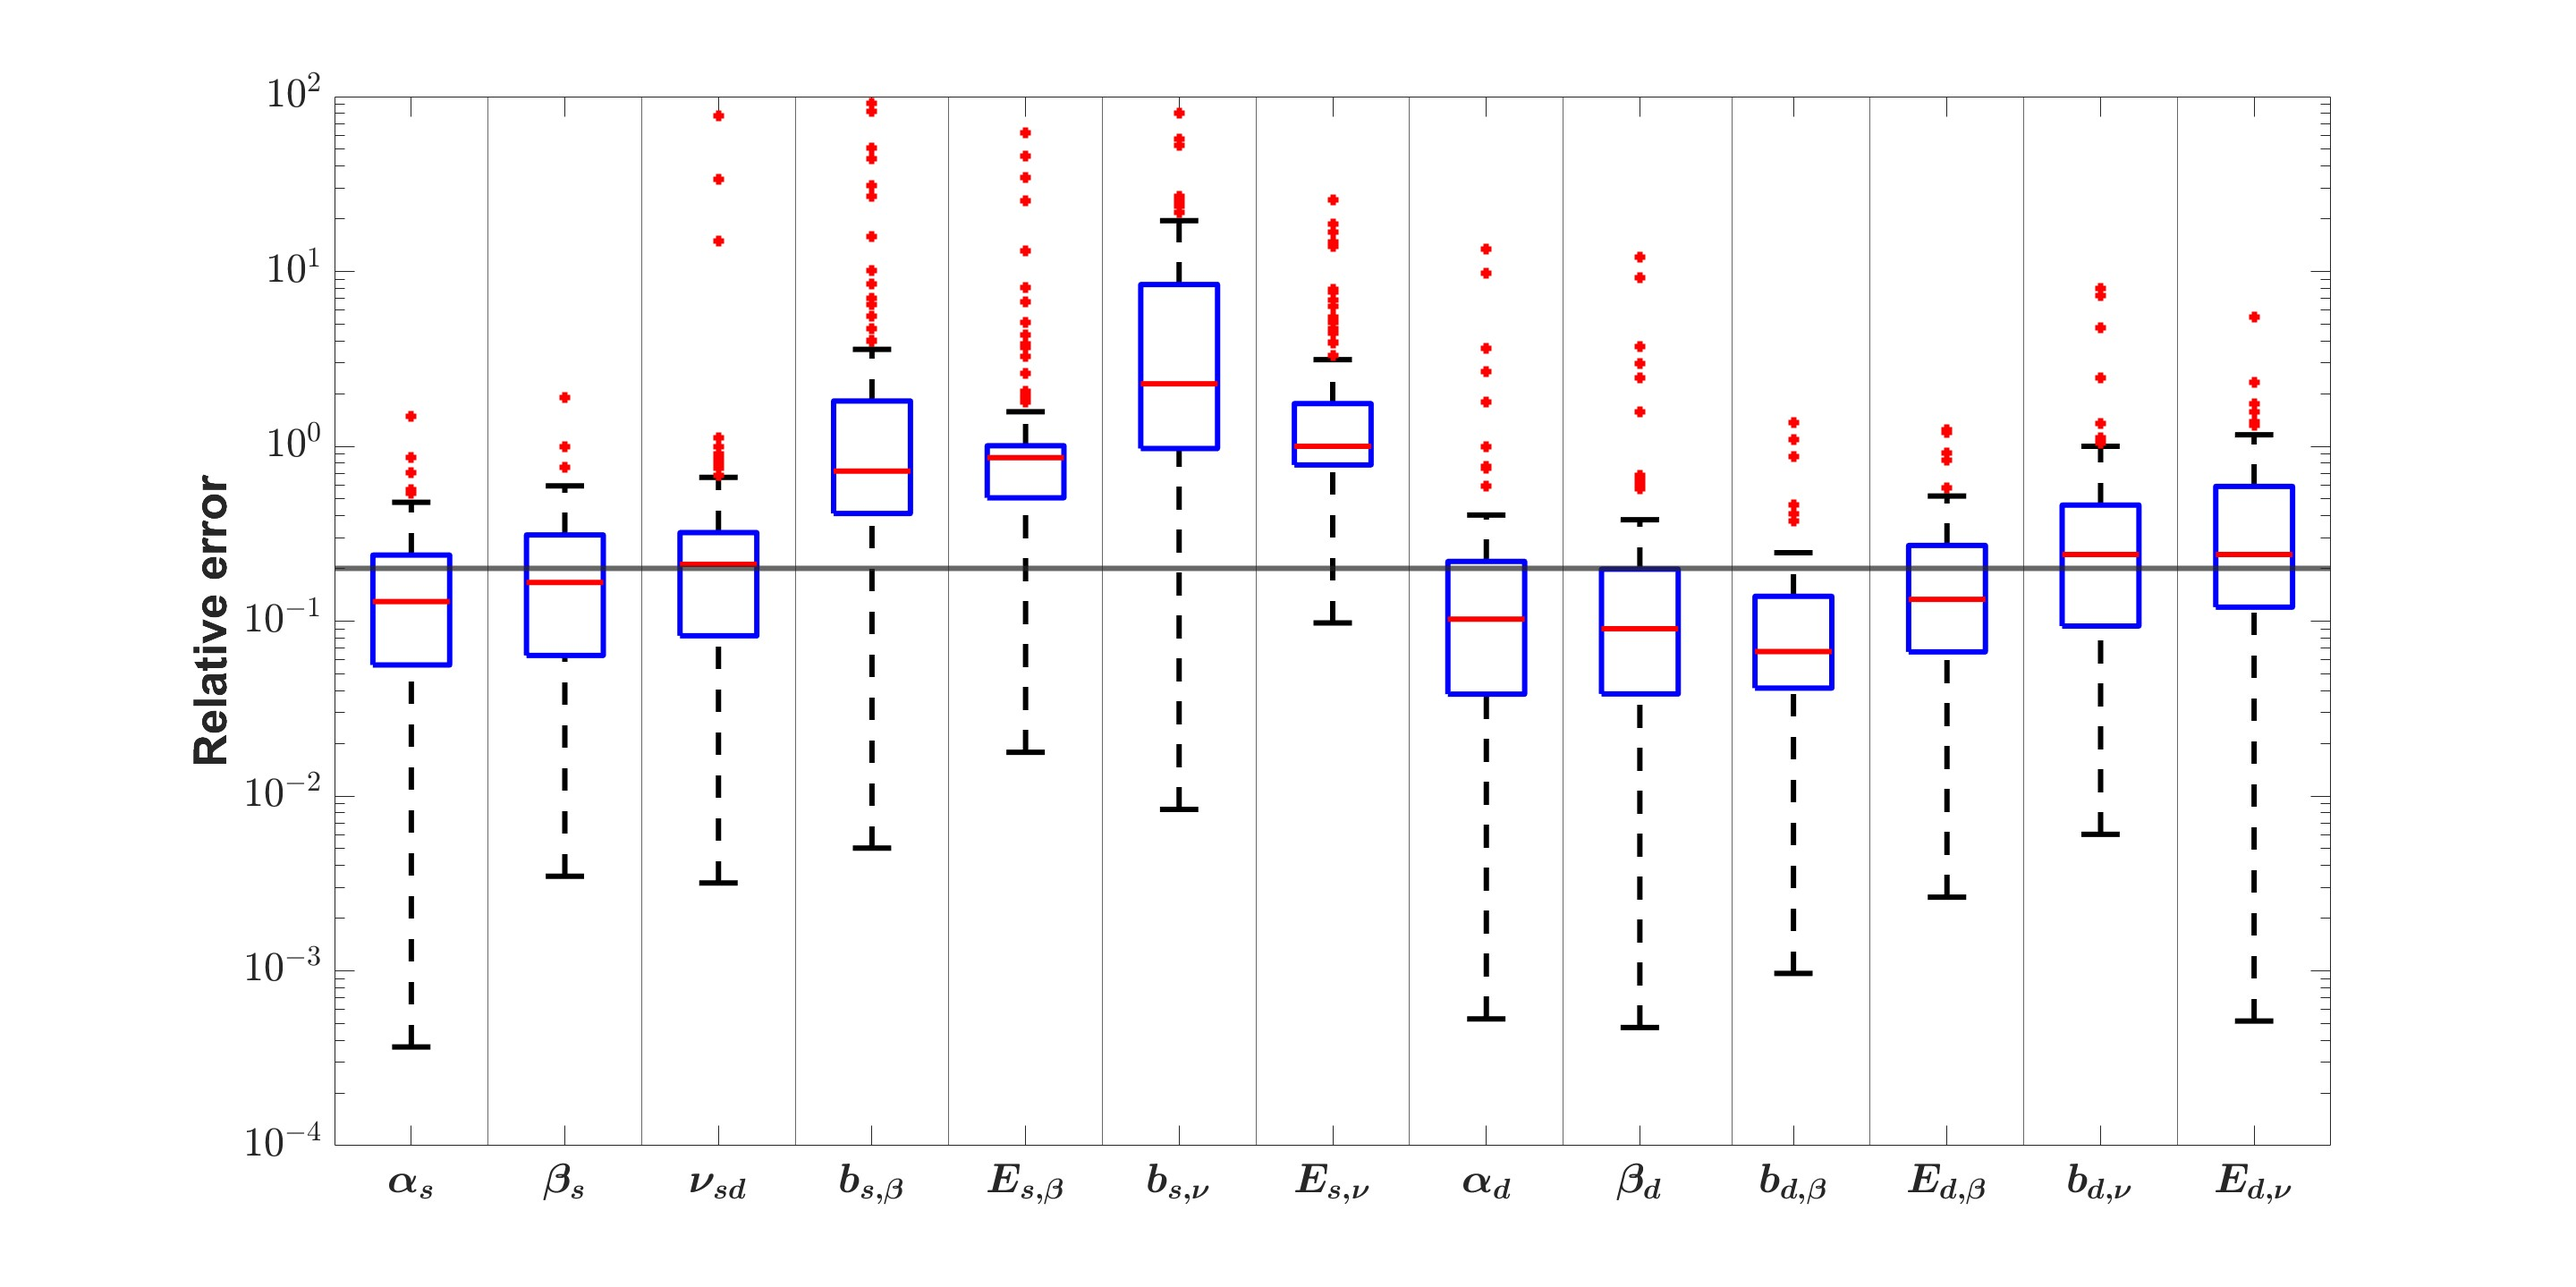
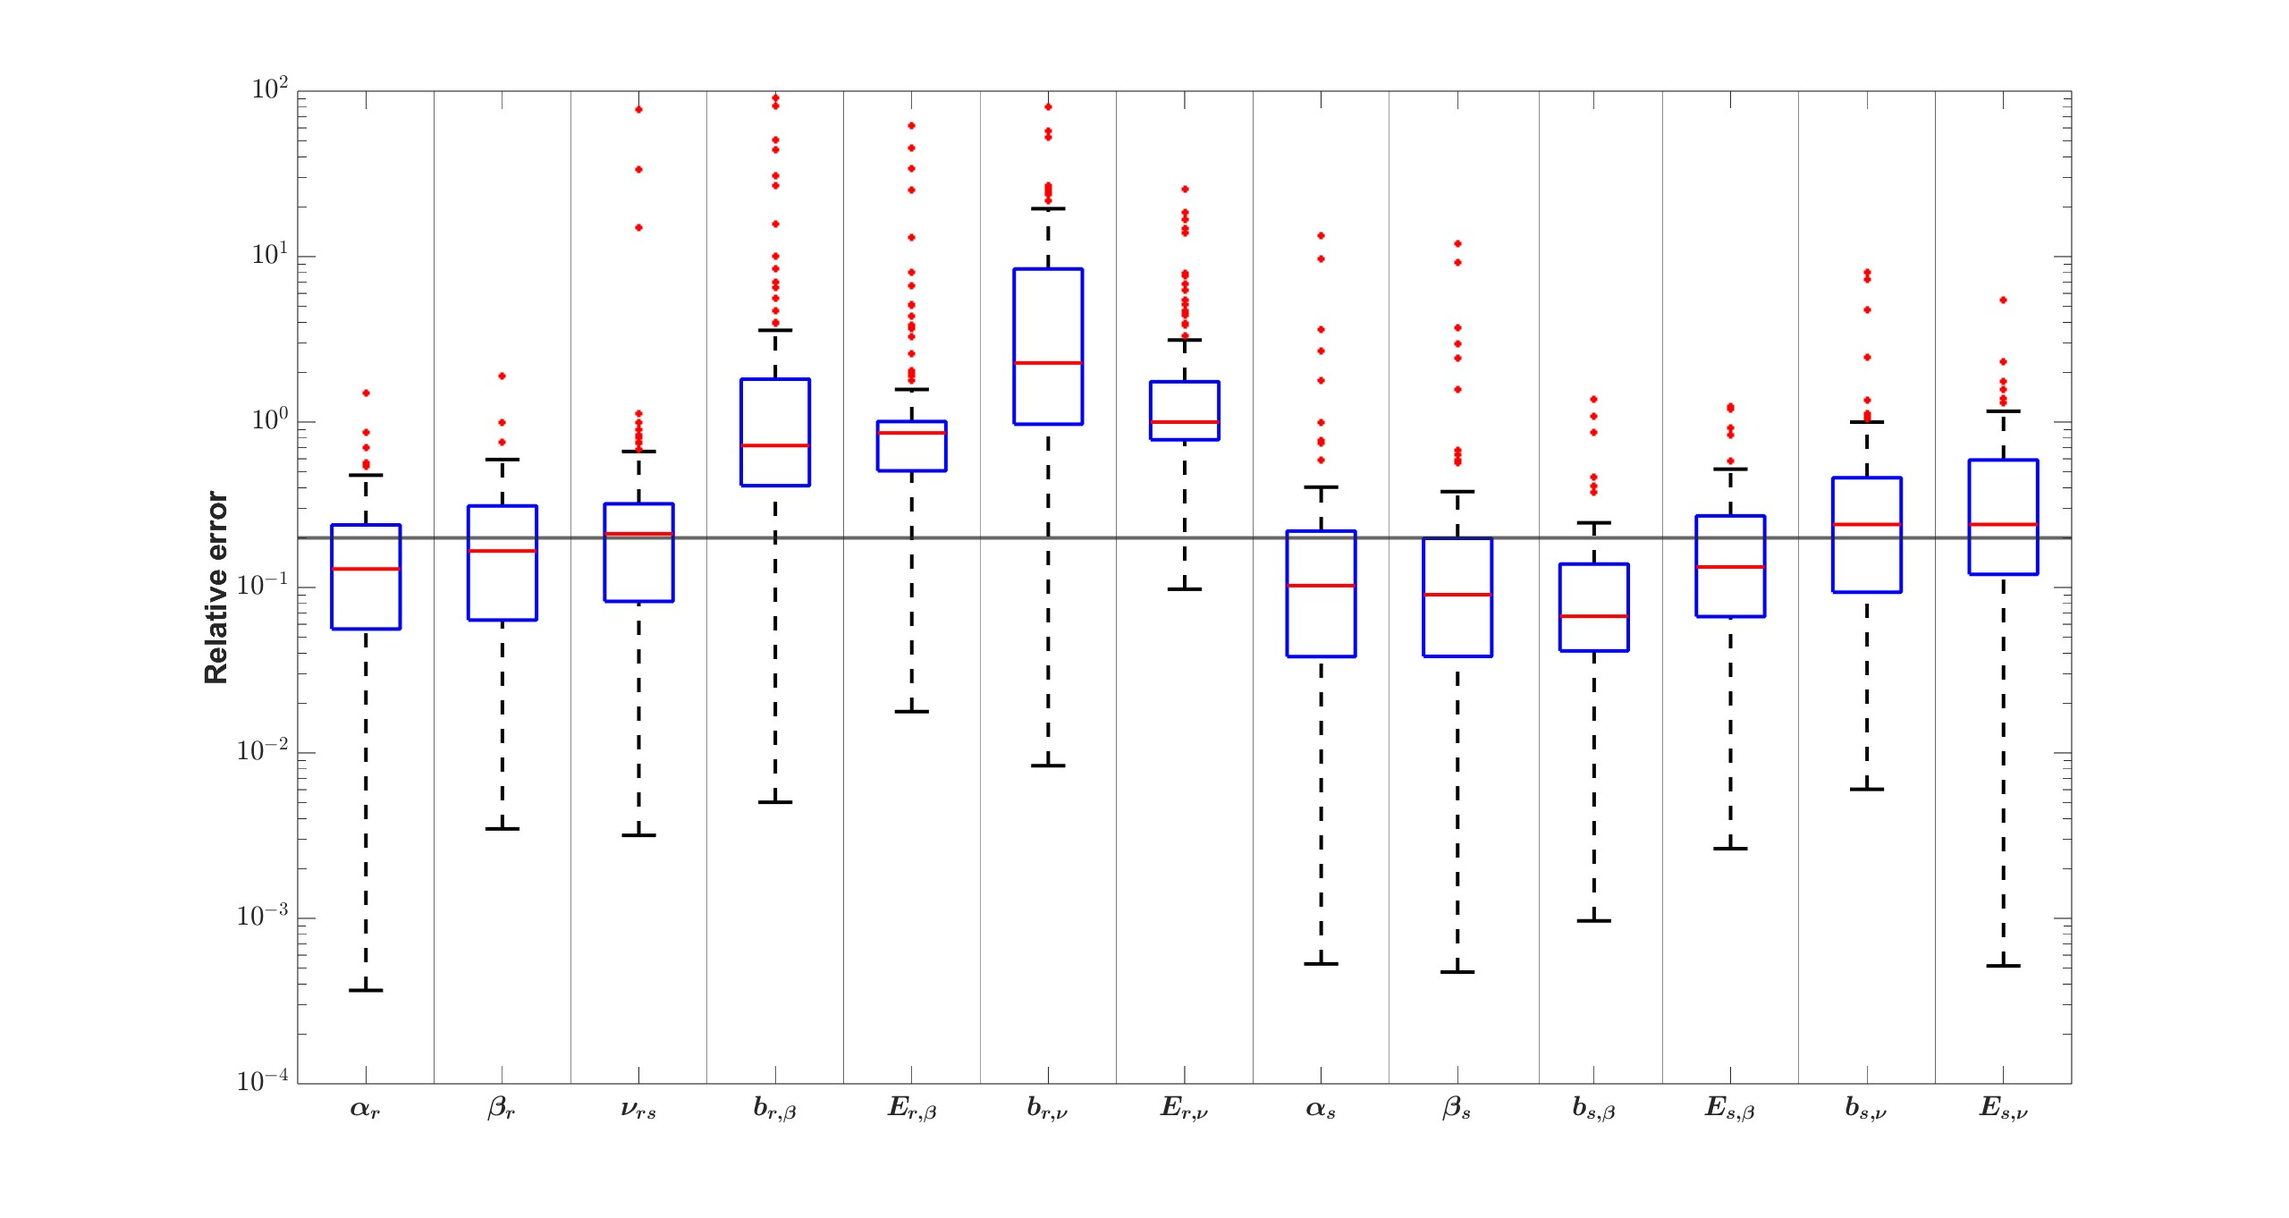
Change subscript

diff --git a/In silico experiments analysis/Plot_Figure7.m b/In silico experiments analysis/Plot_Figure7.m
@@ -2,8 +2,8 @@
 
 load('Results\Assumption3_100.mat')
 hold on
-name = ["\boldmath$\alpha_s$","\boldmath$\beta_s$","\boldmath$\nu_{sd}$","\boldmath$b_{s,\beta}$","\boldmath$E_{s,\beta}$","\boldmath$b_{s,\nu}$","\boldmath$E_{s,\nu}$",...
-"\boldmath$\alpha_d$","\boldmath$\beta_{d}$","\boldmath$b_{d,\beta}$","\boldmath$E_{d,\beta}$","\boldmath$b_{d,\nu}$","\boldmath$E_{d,\nu}$"];
+name = ["\boldmath$\alpha_r$","\boldmath$\beta_r$","\boldmath$\nu_{rs}$","\boldmath$b_{r,\beta}$","\boldmath$E_{r,\beta}$","\boldmath$b_{r,\nu}$","\boldmath$E_{r,\nu}$",...
+"\boldmath$\alpha_s$","\boldmath$\beta_{s}$","\boldmath$b_{s,\beta}$","\boldmath$E_{s,\beta}$","\boldmath$b_{s,\nu}$","\boldmath$E_{s,\nu}$"];
 
 % relative_error_a3(:,8) = []; %% temp
 

diff --git a/In silico experiments analysis/Plot_Figure8.m b/In silico experiments analysis/Plot_Figure8.m
@@ -2,8 +2,8 @@
 
 load('Results\Assumption4_100.mat')
 hold on
-name = ["\boldmath$p_s$","\boldmath$\alpha_s$","\boldmath$\beta_s$","\boldmath$\nu_{sd}$","\boldmath$p_d$","\boldmath$\alpha_d$"...
-"\boldmath$\beta_{d}$","\boldmath$1-b_{d,\beta}$","\boldmath$E_{d,\beta}$","\boldmath$b_{d,\nu}-1$","\boldmath$E_{d,\nu}$"];
+name = ["\boldmath$p_r$","\boldmath$\alpha_r$","\boldmath$\beta_r$","\boldmath$\nu_{rs}$","\boldmath$p_s$","\boldmath$\alpha_s$"...
+"\boldmath$\beta_{s}$","\boldmath$1-b_{s,\beta}$","\boldmath$E_{s,\beta}$","\boldmath$b_{s,\nu}-1$","\boldmath$E_{s,\nu}$"];
 
 % relative_error_a4(:,6) = []; %% temp
 

diff --git a/In silico experiments analysis/Plot_Figure4.m b/In silico experiments analysis/Plot_Figure4.m
@@ -2,8 +2,8 @@
 
 load('Results\Base_100.mat')
 hold on
-name = ["\boldmath$\alpha_s$","\boldmath$\beta_s$","\boldmath$\nu_{sd}$","\boldmath$\alpha_d$",...
-"\boldmath$\beta_{d}$","\boldmath$1-b_{d,\beta}$","\boldmath$E_{d,\beta}$","\boldmath$b_{d,\nu}-1$","\boldmath$E_{d,\nu}$"];
+name = ["\boldmath$\alpha_r$","\boldmath$\beta_r$","\boldmath$\nu_{rs}$","\boldmath$\alpha_s$",...
+"\boldmath$\beta_{s}$","\boldmath$1-b_{s,\beta}$","\boldmath$E_{s,\beta}$","\boldmath$b_{s,\nu}-1$","\boldmath$E_{s,\nu}$"];
 
 sc = boxplot(relative_error,name);
 set(sc,'LineWidth',3)

diff --git a/In silico experiments analysis/Plot_Figure10.m b/In silico experiments analysis/Plot_Figure10.m
@@ -15,7 +15,7 @@ y  = mean(birth_hist);
 % ax.YScale = 'log';
 ax.YLim = [0,3];
 ax.XLim = [0,5];
-ylabel('\boldmath$\hat{\alpha_d}/\alpha_d^*$','Interpreter','latex')
+ylabel('\boldmath$\hat{\alpha_s}/\alpha_s^*$','Interpreter','latex')
 xlabel('Maximum division number')
 
 % set(ax,"DefaultAxesTickLabelInterpreter",'latex')
